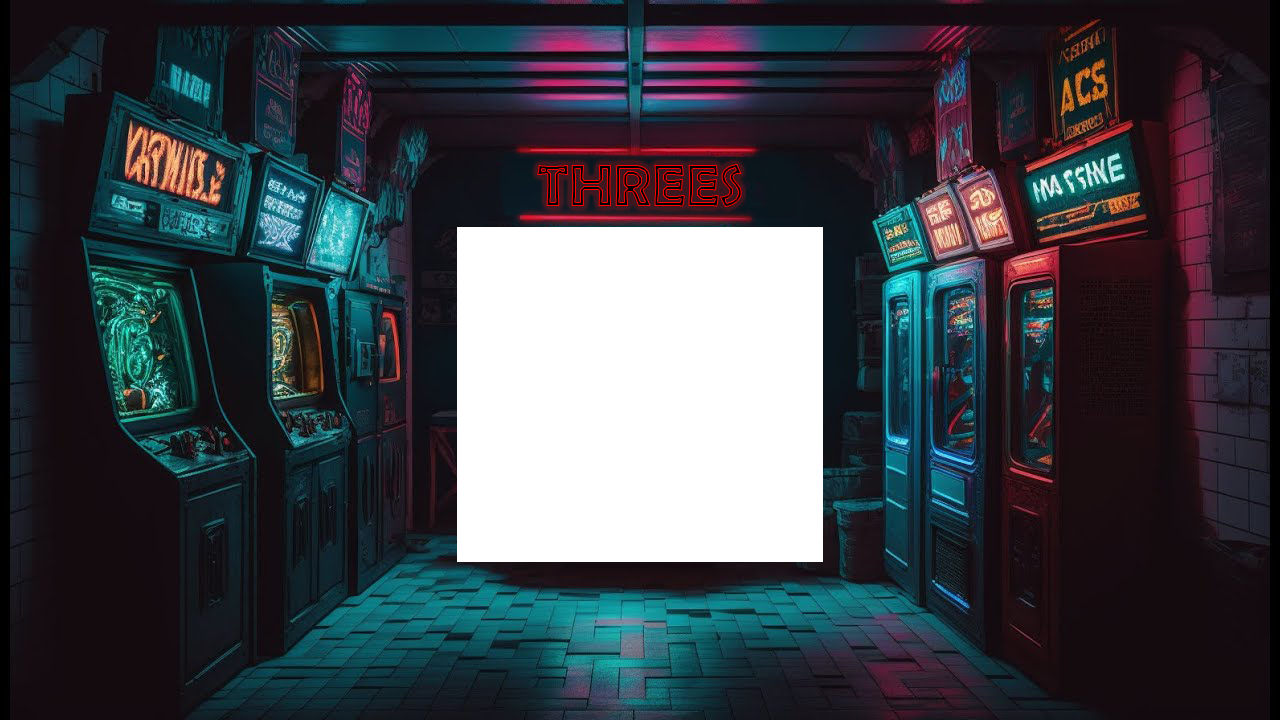
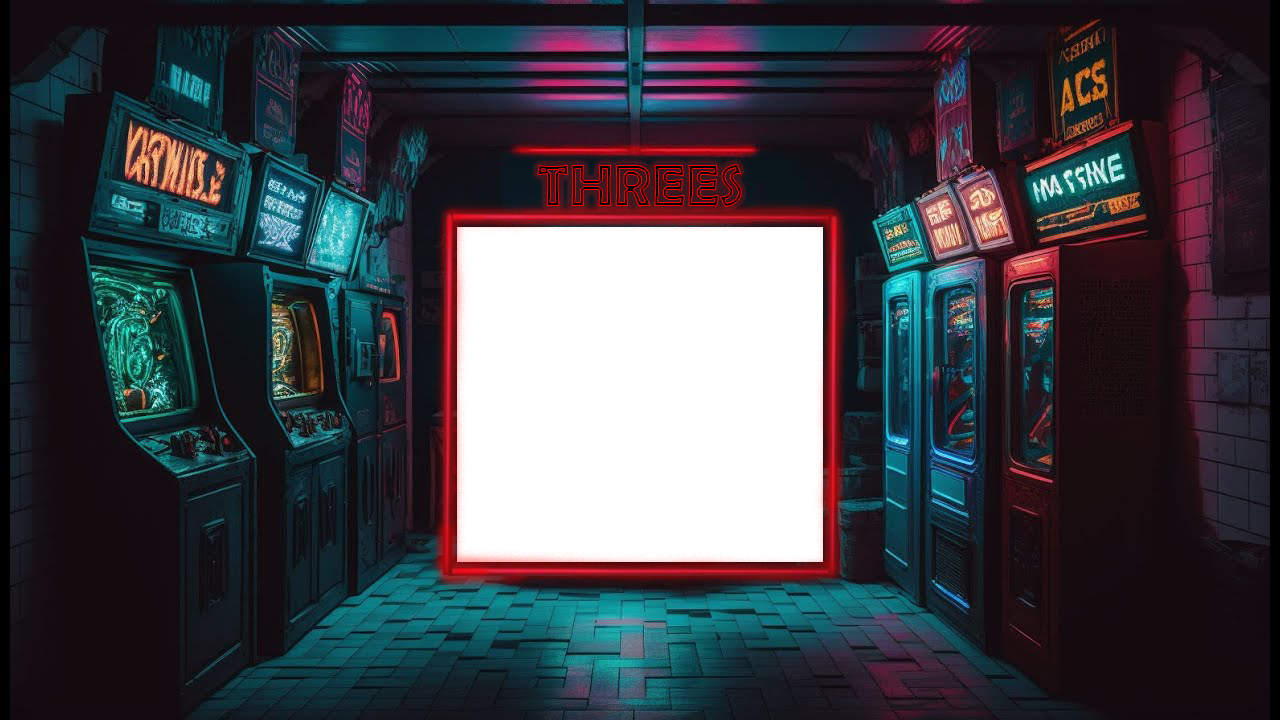
Projet Threes +Background terminus et couleur jeu

Changed region(s): [[0.3125, 0.275, 0.6875, 0.825], [0.4062, 0.1833, 0.5938, 0.2139]]

diff --git a/src/projet_threes/Terminus.java b/src/projet_threes/Terminus.java
@@ -4,10 +4,13 @@
  */
 package projet_threes;
 
+import java.awt.GridLayout;
 import javax.swing.JFrame;
 
 import java.util.Arrays;
+import javax.swing.ImageIcon;
 import javax.swing.JFrame;
+import javax.swing.JLabel;
 
 /**
  *
@@ -21,6 +24,13 @@ public class Terminus extends javax.swing.JFrame {
      */
     public Terminus() {
         initComponents();
+        Rien.setLayout(new GridLayout(1, 1));
+        getContentPane().add(Rien, new org.netbeans.lib.awtextra.AbsoluteConstraints(640, 480, 0, 0));
+        JLabel backgroundLabel = new JLabel();
+    String imagePath = "musique\\Street-fighterGameOver.png"; 
+    backgroundLabel.setIcon(new ImageIcon(imagePath));
+    getContentPane().add(backgroundLabel, new org.netbeans.lib.awtextra.AbsoluteConstraints(0, 0, -1, -1));
+
         player = new MusiqueMaestro();
         String filePath = "musique\\Street-Fighter-2-The-Animated-Movie-OST-Korn-Blind.wav";
         player.play(filePath);
@@ -38,8 +48,11 @@ public class Terminus extends javax.swing.JFrame {
 
         jButton1 = new javax.swing.JButton();
         jButton2 = new javax.swing.JButton();
+        Rien = new javax.swing.JPanel();
 
         setDefaultCloseOperation(javax.swing.WindowConstants.EXIT_ON_CLOSE);
+        setPreferredSize(new java.awt.Dimension(640, 480));
+        getContentPane().setLayout(new org.netbeans.lib.awtextra.AbsoluteLayout());
 
         jButton1.setText("Rejouer");
         jButton1.addActionListener(new java.awt.event.ActionListener() {
@@ -47,6 +60,7 @@ public class Terminus extends javax.swing.JFrame {
                 jButton1ActionPerformed(evt);
             }
         });
+        getContentPane().add(jButton1, new org.netbeans.lib.awtextra.AbsoluteConstraints(114, 195, -1, -1));
 
         jButton2.setText("Abandonner");
         jButton2.addActionListener(new java.awt.event.ActionListener() {
@@ -54,27 +68,20 @@ public class Terminus extends javax.swing.JFrame {
                 jButton2ActionPerformed(evt);
             }
         });
+        getContentPane().add(jButton2, new org.netbeans.lib.awtextra.AbsoluteConstraints(216, 195, -1, -1));
 
-        javax.swing.GroupLayout layout = new javax.swing.GroupLayout(getContentPane());
-        getContentPane().setLayout(layout);
-        layout.setHorizontalGroup(
-            layout.createParallelGroup(javax.swing.GroupLayout.Alignment.LEADING)
-            .addGroup(layout.createSequentialGroup()
-                .addGap(114, 114, 114)
-                .addComponent(jButton1)
-                .addGap(30, 30, 30)
-                .addComponent(jButton2)
-                .addContainerGap(88, Short.MAX_VALUE))
+        javax.swing.GroupLayout RienLayout = new javax.swing.GroupLayout(Rien);
+        Rien.setLayout(RienLayout);
+        RienLayout.setHorizontalGroup(
+            RienLayout.createParallelGroup(javax.swing.GroupLayout.Alignment.LEADING)
+            .addGap(0, 100, Short.MAX_VALUE)
         );
-        layout.setVerticalGroup(
-            layout.createParallelGroup(javax.swing.GroupLayout.Alignment.LEADING)
-            .addGroup(javax.swing.GroupLayout.Alignment.TRAILING, layout.createSequentialGroup()
-                .addContainerGap(195, Short.MAX_VALUE)
-                .addGroup(layout.createParallelGroup(javax.swing.GroupLayout.Alignment.BASELINE)
-                    .addComponent(jButton1)
-                    .addComponent(jButton2))
-                .addGap(82, 82, 82))
+        RienLayout.setVerticalGroup(
+            RienLayout.createParallelGroup(javax.swing.GroupLayout.Alignment.LEADING)
+            .addGap(0, 100, Short.MAX_VALUE)
         );
+
+        getContentPane().add(Rien, new org.netbeans.lib.awtextra.AbsoluteConstraints(310, 80, -1, -1));
 
         pack();
     }// </editor-fold>//GEN-END:initComponents
@@ -145,6 +152,7 @@ public class Terminus extends javax.swing.JFrame {
     }
 
     // Variables declaration - do not modify//GEN-BEGIN:variables
+    private javax.swing.JPanel Rien;
     private javax.swing.JButton jButton1;
     private javax.swing.JButton jButton2;
     // End of variables declaration//GEN-END:variables

diff --git a/src/projet_threes/Tuiles_Graphique.java b/src/projet_threes/Tuiles_Graphique.java
@@ -47,42 +47,41 @@ public class Tuiles_Graphique extends JButton {
 
     @Override
     protected void paintComponent(Graphics g) {
-        int w = this.getWidth();
-        int h = this.getHeight();
+    int w = this.getWidth();
+    int h = this.getHeight();
 
-        int valeur = TuileAssociee.getValue();
-        Color couleur;
+    int valeur = TuileAssociee.getValue();
+    Color couleur;
 
-        // Détermine la couleur en fonction de la valeur de la tuile
-        switch (valeur) {
-            case 1:
-                couleur = Color.decode("#FFC0CB");
-                break;
-            case 2:
-                couleur = Color.decode("#ADD8E6");
-                break;
-            case 0:
-                couleur = Color.gray;
-                break;
-            default:
-                couleur = Color.white;
-                break;
-        }
+    // Détermine la couleur en fonction de la valeur de la tuile
+    switch (valeur) {
+        case 1:
+            couleur = Color.decode("#0000FF");
+            break;
+        case 2:
+            couleur = Color.decode("#FF0000");
+            break;
+        default:
+            couleur = (valeur == 0) ? Color.gray : Color.white;
+            break;
+    }
 
-        // Définit la couleur pour le remplissage du rectangle
-        g.setColor(couleur.darker());
-        g.fillRect(2, 2, w - 2, h - 2);
+    // Définit la couleur pour le remplissage du rectangle
+    g.setColor(couleur.darker());
+    g.fillRect(2, 2, w - 4, h - 4);
 
-        // Convertit la valeur en texte
-        String valeurText = String.valueOf(valeur);
+    // Convertit la valeur en texte
+    String valeurText = (valeur == 0) ? "" : String.valueOf(valeur);
 
-        // Définit la couleur pour le texte (blanc pour les couleurs sombres, noir pour les couleurs claires)
-        Color textColor = (couleur.equals(Color.black) || couleur.equals(Color.gray)) ? Color.white : Color.black;
-        g.setColor(textColor);
+    // Définit la couleur pour le texte (blanc pour les couleurs sombres, noir pour les couleurs claires)
+    Color textColor = (couleur.equals(Color.black) || couleur.equals(Color.gray)) ? Color.white : Color.black;
+    g.setColor(textColor);
 
-        // Dessine la valeur au centre du rectangle
+    // Dessine la valeur au centre du rectangle si la valeur est différente de 0
+    if (valeur != 0) {
         int xText = w / 2 - g.getFontMetrics().stringWidth(valeurText) / 2;
         int yText = h / 2 + g.getFontMetrics().getAscent() / 2;
         g.drawString(valeurText, xText, yText);
     }
+}
 }
